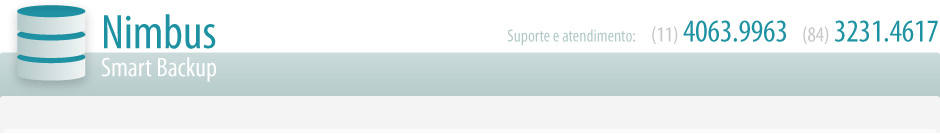
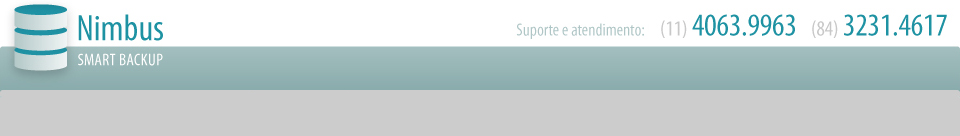
Adicionei o destaque da parte principal junto com o computador selecionado. Modifiquei tambem o topo do sistema deixando mais escuro.

diff --git a/trunk/templates/bkp/static/estilo.css b/trunk/templates/bkp/static/estilo.css
@@ -107,7 +107,7 @@ color: #FFF;
 
 
 #site {
-width: 940px;
+width: 960px;
 margin: 0 auto;
 }
 
@@ -116,10 +116,10 @@ margin: 0 auto;
 
 
 #topo {
-background:transparent url(../static/imagens/topo_nimbus.jpg) top left no-repeat;
-height:133px;
-margin-top:35px;
-width: 940px;
+background:transparent url(/static/imagens/topo_nimbus.jpg) top left no-repeat;
+height:95px;
+margin-top:10px;
+width: 960px;
 }
 
 #topo h1 {
@@ -140,7 +140,7 @@ height: 95px;
 
 #topo .menu {
 overflow: hidden;
-padding-top: 61px;
+padding-top: 55px;
 }
 
 #topo .menu ul {
@@ -226,17 +226,16 @@ color: #1e91a6;
 /* CONTEUDO */
 
 #conteudo {
-width: 912px;
+width: 940px;
 overflow: hidden;
-background: #FAFCFB;
-border-left: 4px solid #F4F4F4;
-border-right: 4px solid #F4F4F4;
-border-bottom: 7px solid #F4F4F4;
-padding: 6px 10px;
+background: #CCC;
+padding: 10px;
+-moz-border-radius-bottomleft: 6px;
+-moz-border-radius-bottomright: 6px;
 }
 
 #sidebar {
-width: 200px;
+width: 220px;
 float: left;
 }
 
@@ -253,9 +252,17 @@ margin-bottom: 10px;
 }
 
 #sidebar .list_computers li {
-padding-bottom: 5px;
+padding: 4px 7px;
 width: 100%;
 overflow: hidden;
+}
+
+#sidebar .list_computers li.active {
+background: #FFF;
+padding: 7px;
+-moz-border-radius-topleft: 5px;
+-moz-border-radius-bottomleft: 5px;
+margin: 3px 0;
 }
 
 #sidebar .list_computers li a {
@@ -264,13 +271,11 @@ float: left;
 color: #666;
 }
 
-#sidebar .list_computers li strong a {
-color: #333;
-}
-
 #sidebar .list_computers li span {
-float: right;
 color: #999;
+font-size: 10px;
+padding-left: 15px;
+vertical-align: baseline;
 }
 
 #sidebar p {
@@ -279,7 +284,11 @@ margin-bottom: 40px;
 
 #main_content {
 float: right;
-width: 680px;
+width: 700px;
+min-height: 500px;
+background: #FFF;
+padding: 10px;
+-moz-border-radius: 5px;
 }
 
 hr {

diff --git a/trunk/templates/bkp/base.html b/trunk/templates/bkp/base.html
@@ -52,11 +52,7 @@
 				    <h3>Computadores</h3>
 					<ul class="aux list_computers">
 						{% for c in comps %}
-						{% ifequal c.id comp.id %}
-						<li><strong><a href="{{script_name}}/computer/{{c.id}}">{{ c.computer_name }}</a> <span>{{ c.computer_ip }}</span></strong></li>
-						{% else %}
-						<li><a href="{{script_name}}/computer/{{c.id}}">{{ c.computer_name }}</a> <span>{{ c.computer_ip }}</span></li>
-						{% endifequal %}
+						<li {% ifequal c.id comp.id %}class="active"{% endifequal %}><a href="{{script_name}}/computer/{{c.id}}">{{ c.computer_name }}</a> <span>{{ c.computer_ip }}</span></li>
 						{% endfor %}
 					</ul>
 					{% endif %}
